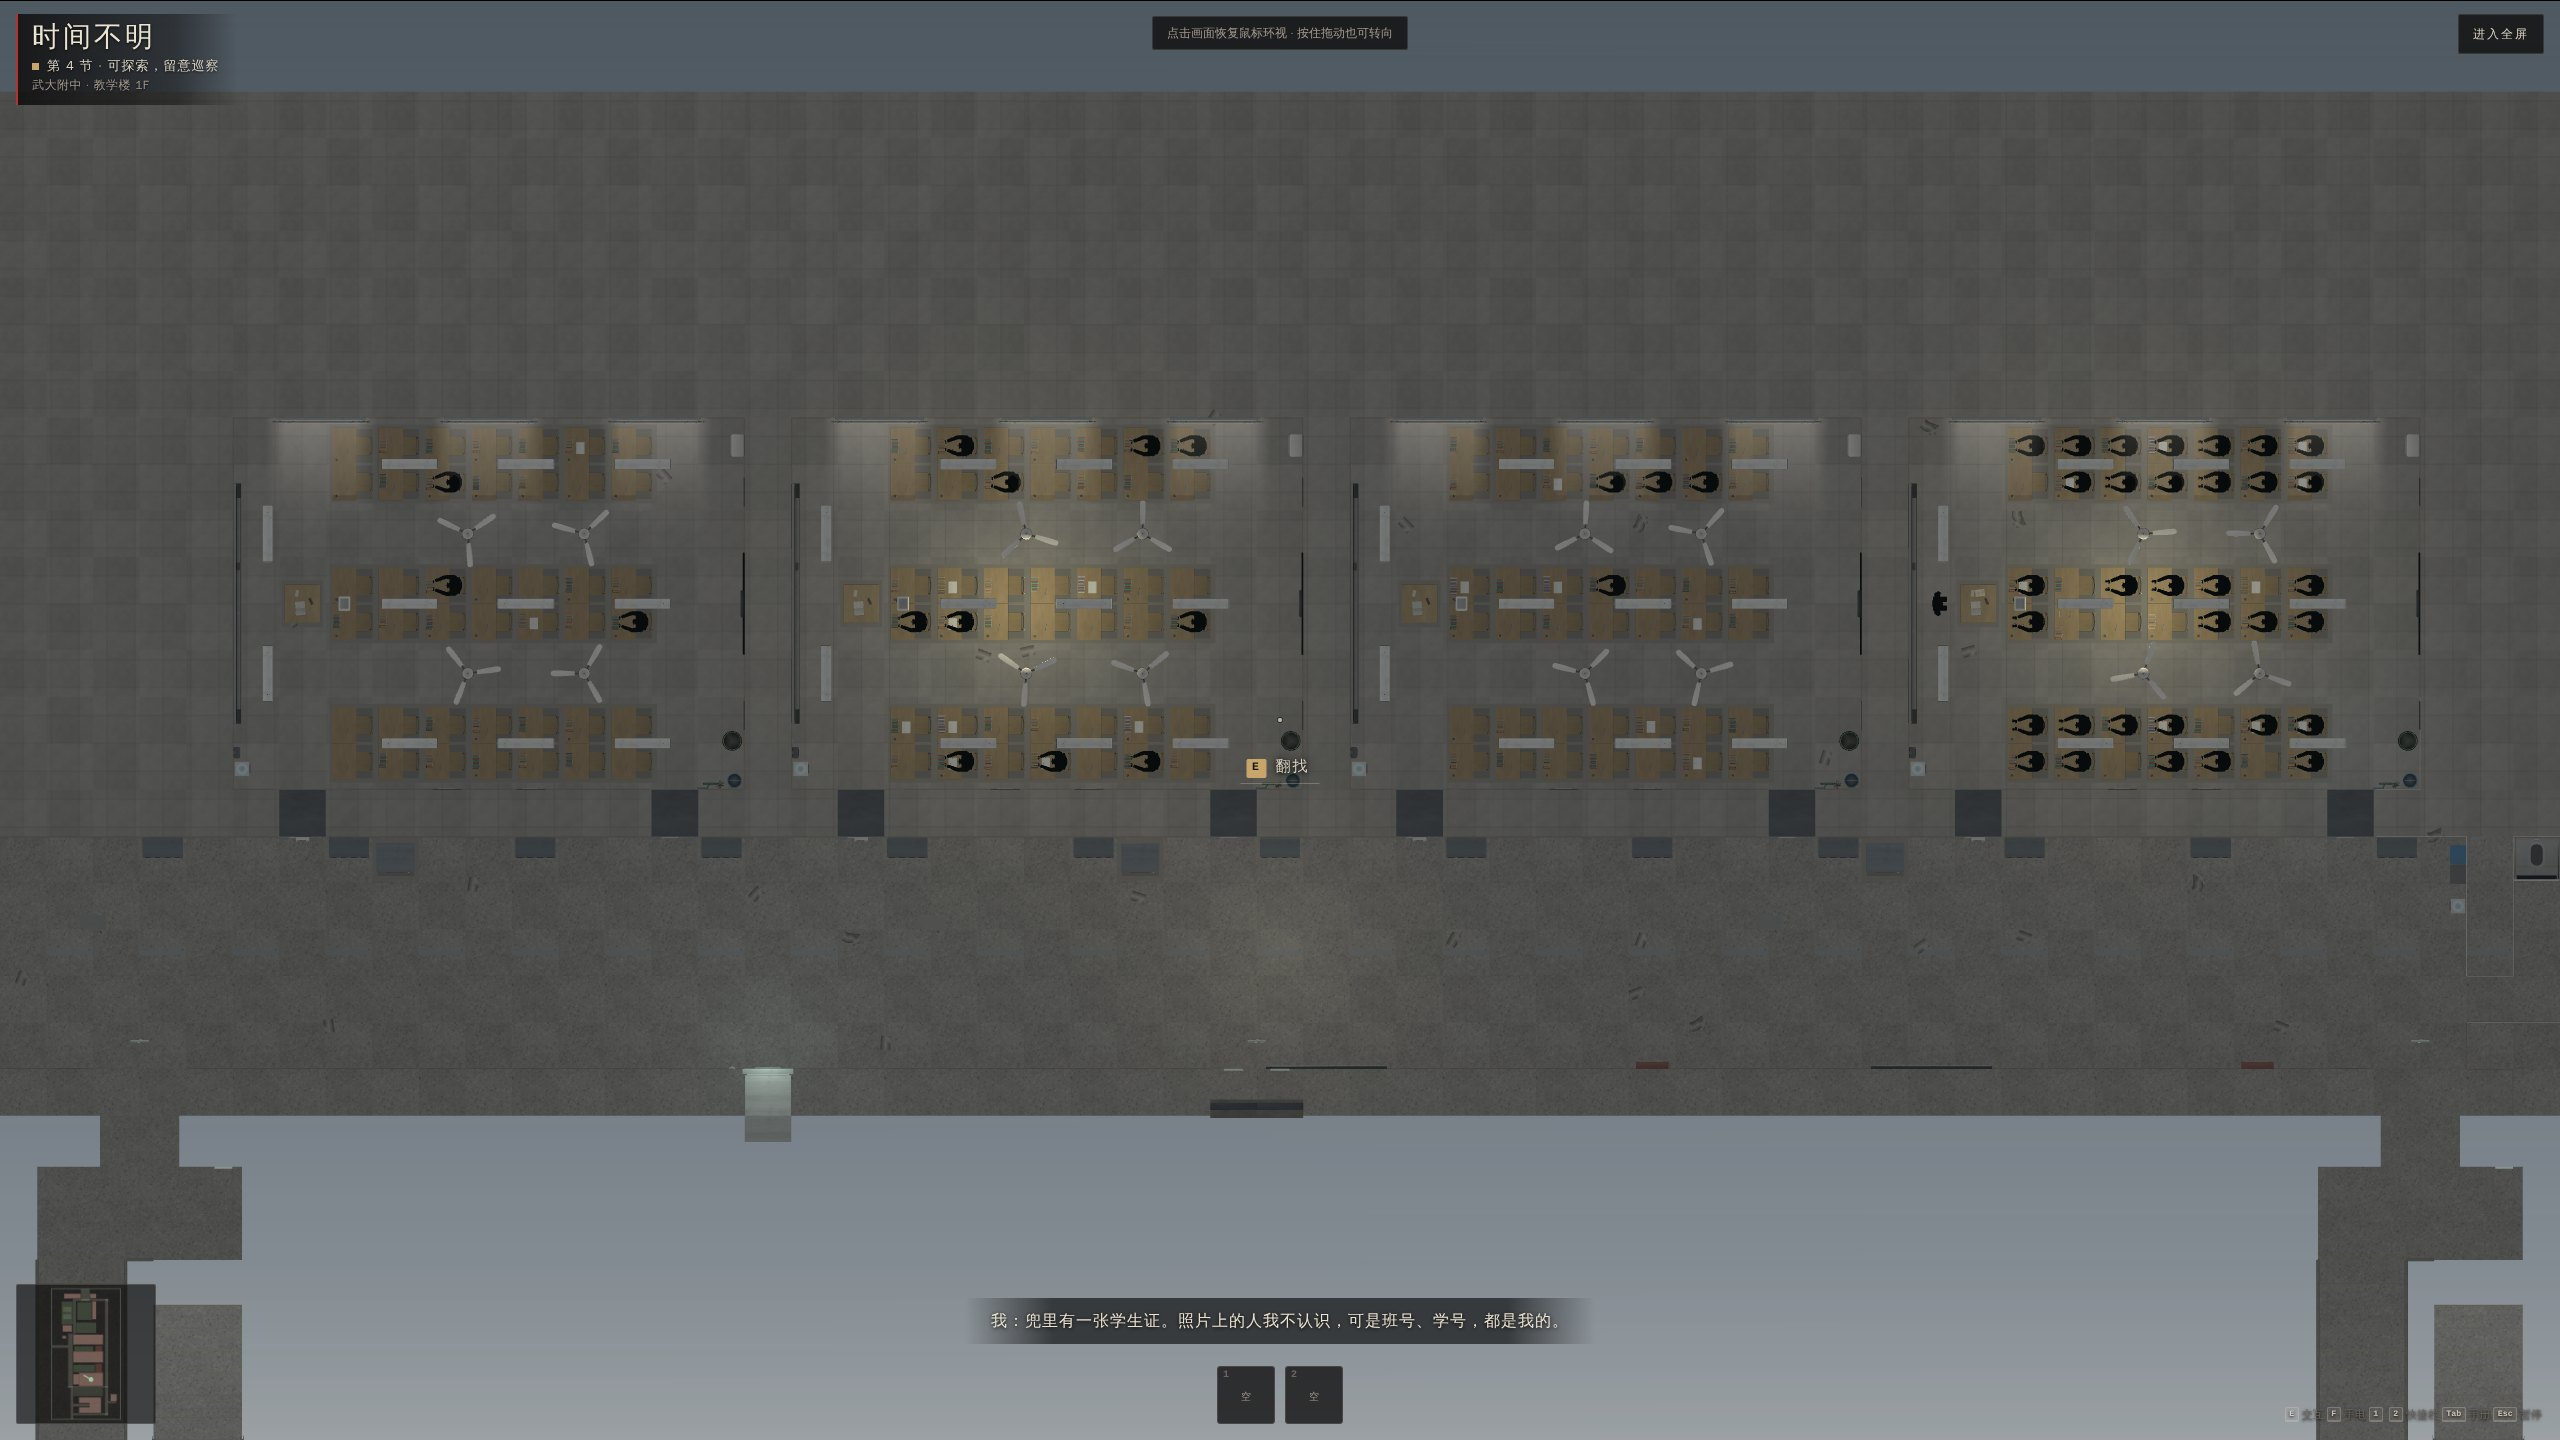
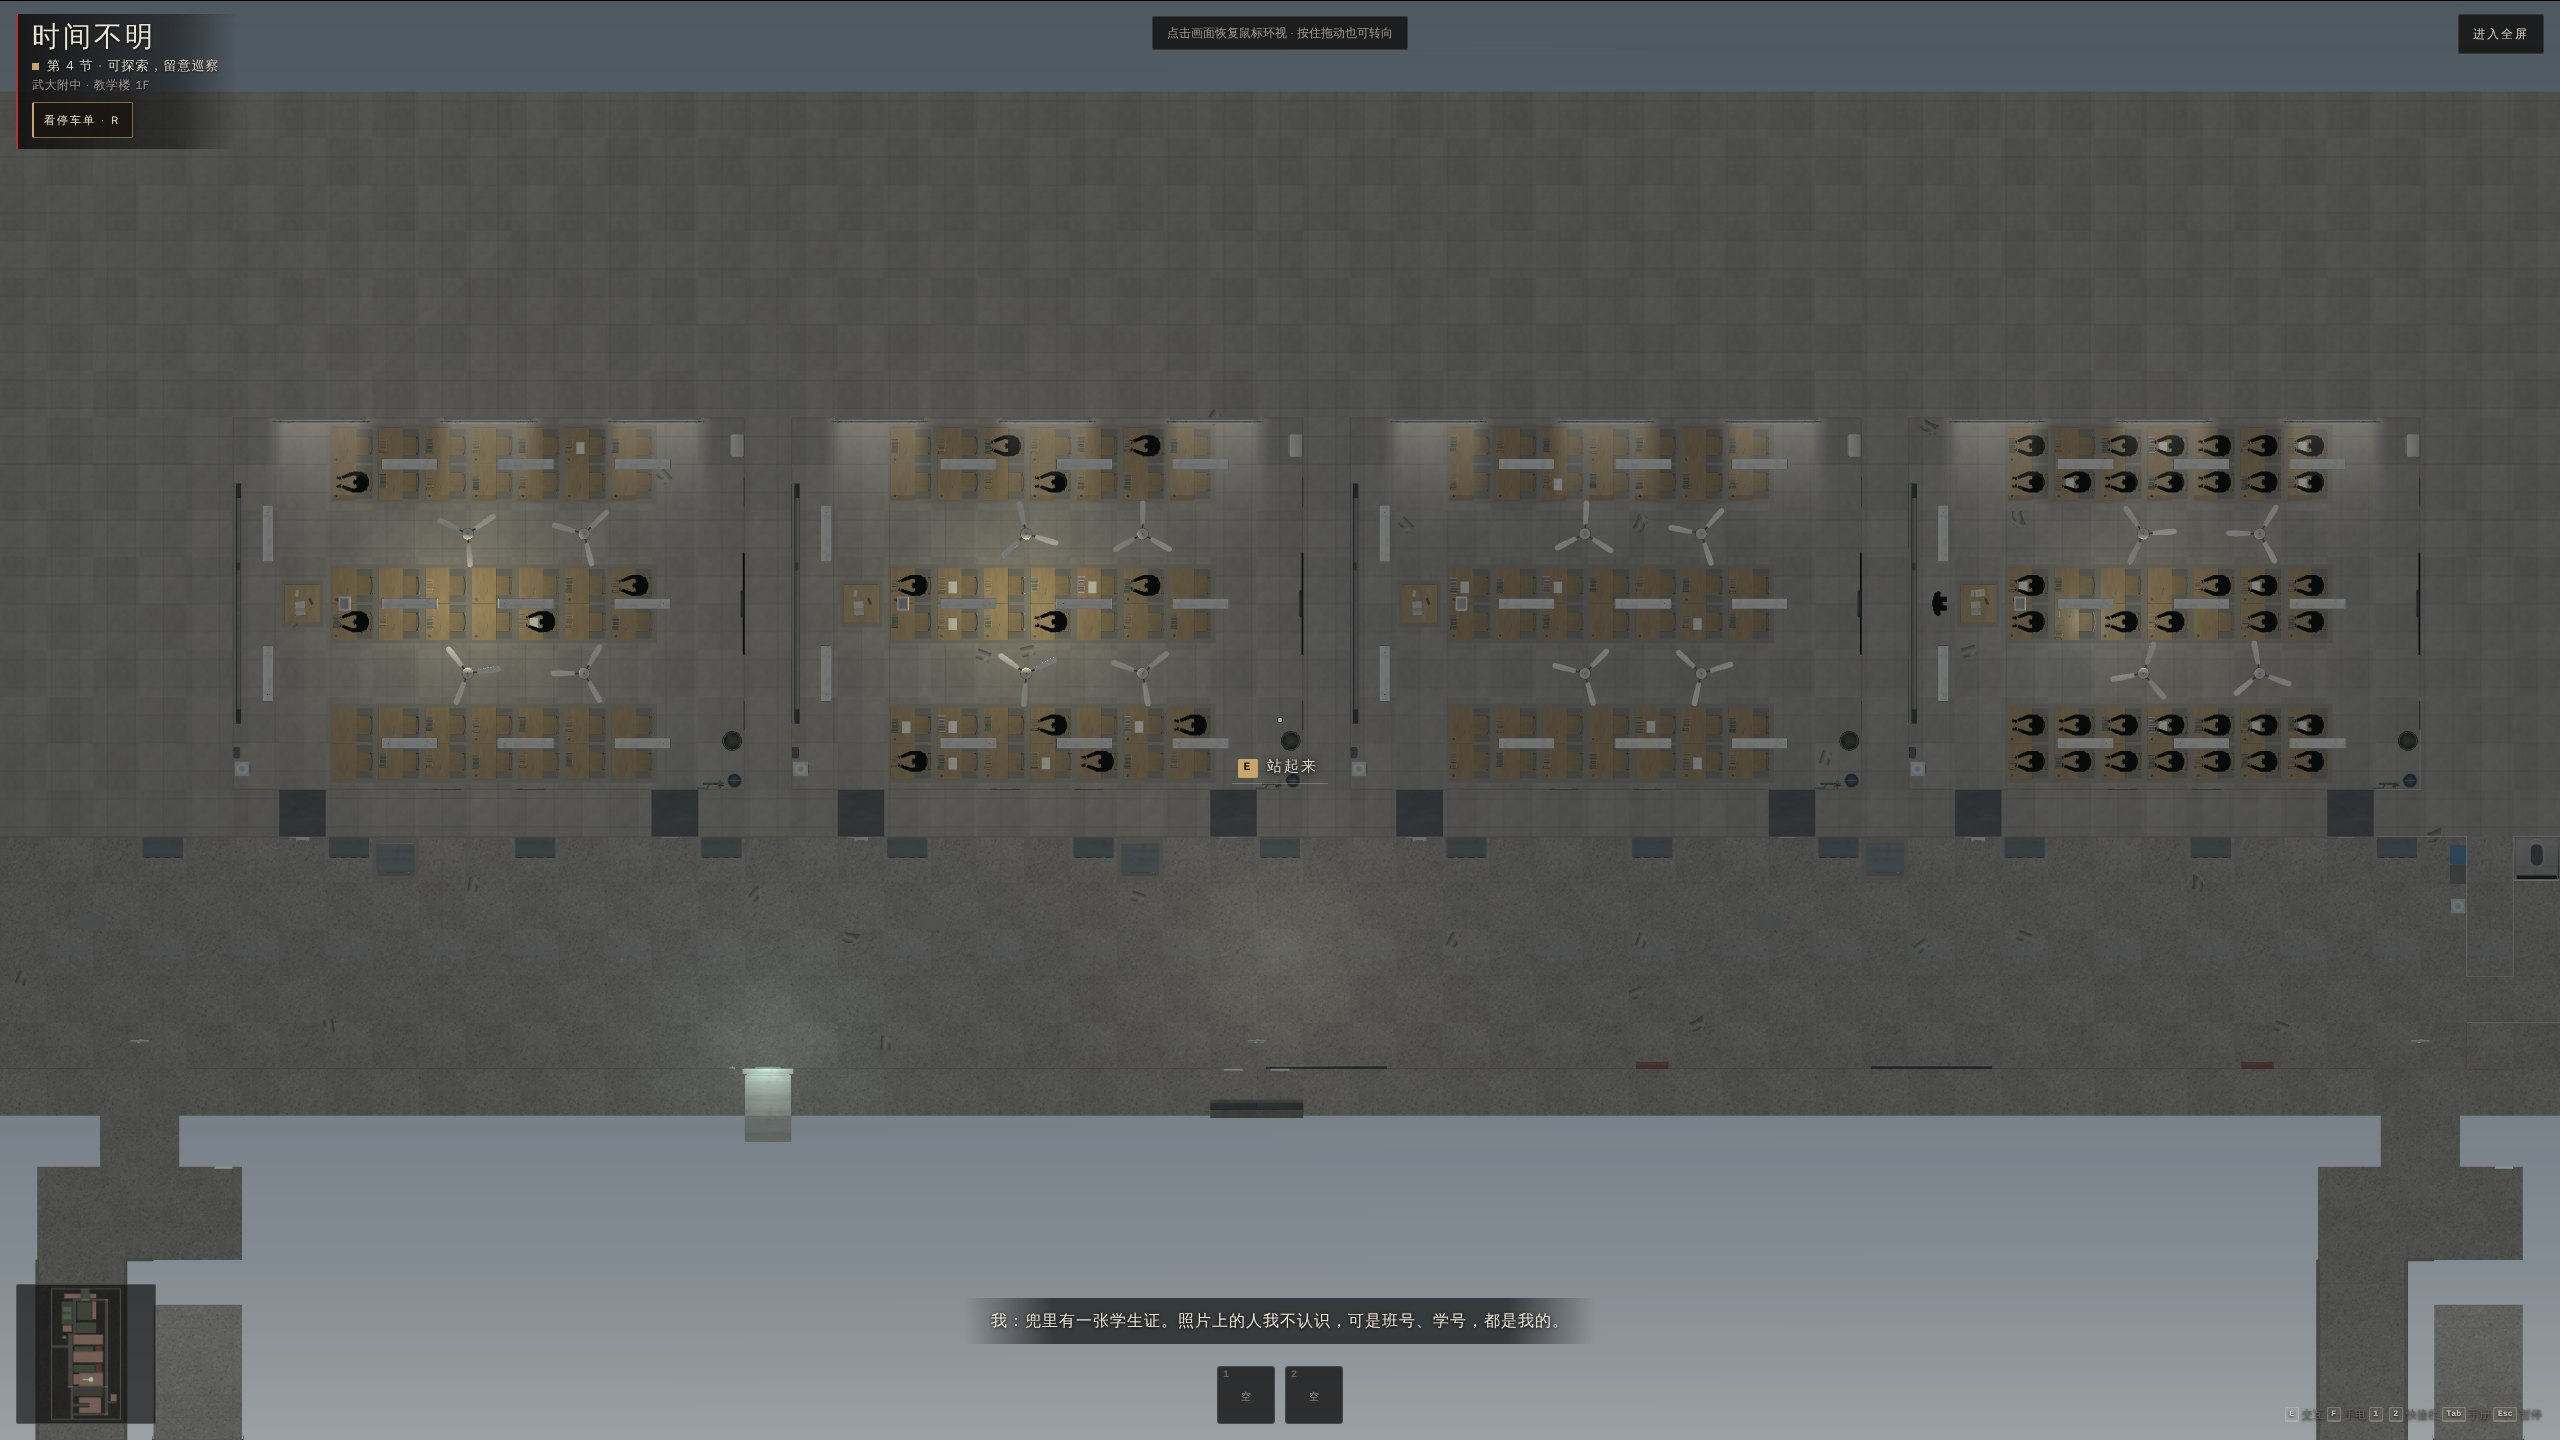
教学楼教室点光源恢复三盏：走廊、电梯厅灯的序号不变
每盏房间灯的闪法和好坏按序号定（lighting.js 的 roomFlicker、lampHealth）。教室点光源从三盏改成两盏以后，后面的走廊灯、
电梯厅灯序号前移：4F 走廊原来是坏灯变成亮的，5F 走廊原来亮的变成坏的，3F、4F、5F 的电梯厅灯也变了；
test_engine 的胶片颗粒那项（关掉颗粒后暗处两帧差）在走廊入口看到走廊灯换了闪法，稳定不过。
现在一层四间里开灯的是第一间、第二间和自己班（和原来六间开三间一样），一间一盏点光源，各层每个序号的灯况和 main 一致；
文档跟着改，一层俯视重拍。

Claude-Session: https://claude.ai/code/session_015vraF6vpWDwJ9RDxwjQfqV

diff --git a/game3d/js/content/scene-data.js b/game3d/js/content/scene-data.js
@@ -19,7 +19,9 @@ var ROOM_THEMES={
 var ROOM_LIGHTS={
   default:[[-0.33,2.75,-0.24,0xf2dcc0,1.7,16,'room'],[0.33,2.75,0.28,0xffe9c8,1.7,16,'room']],
   tunnel:[[3.5,2.65,4.5,0x9ab8ac,0.9,10,'tile'],[3.5,2.65,11.5,0x9ab8ac,0.9,10,'tile'],[3.5,2.65,19.5,0x9ab8ac,0.9,10,'tile']],
-  teach:[[26.0,2.75,11.0,0xffe9c8,1.55,16,'tile'],[50.0,2.75,11.0,0xffe9c8,1.55,16,'tile']],   /* 开着灯的两间教室（第二间和自己班，见 room-recipe 的 LIT）正中 */
+  /* 开着灯的三间教室正中（第一间、第二间和自己班，见 room-recipe 的 LIT）。保持三盏：每盏灯的闪法和好坏按序号定（lighting.js 的
+     roomFlicker / lampHealth），后面走廊那盏、电梯厅那盏的序号不能变，不然各层走廊哪盏坏、哪盏亮就全换了 */
+  teach:[[14.0,2.75,11.0,0xffe9c8,1.55,16,'tile'],[26.0,2.75,11.0,0xffe9c8,1.55,16,'tile'],[50.0,2.75,11.0,0xffe9c8,1.55,16,'tile']],
   lab3:[[-16,2.70,-2,0xc8dce8,1.3,18],[-3,2.70,-2,0xc8dce8,1.1,18],[17,2.60,-2.5,0x8a2418,1.6,16],[0,2.6,0.4,0xc07a4a,0.8,14,'room']],
   bell:[[0,2.4,2.5,0xffa860,0.9,12]],trash:[[0,2.6,0,0xb8d0a8,0.7,10]]
 };

diff --git a/game3d/js/content/room-recipe.js b/game3d/js/content/room-recipe.js
@@ -428,7 +428,7 @@ function roomDecor(c,isRoof){
     if(teachFl){
       var nl=0;
       for(x=3;x<W-3;x+=9){ var near=Math.abs(CX(x))<10; ceilingLight(K,CX(x),CZ(18),1.8,0.24,0,near?(nl++===1?'dying':'on'):((x/9|0)%2?'dying':'off')); }
-      var cs=$imports.CLS_SPAN, ci, LIT={21:1,45:1};                       /* 一层四间，开着灯的是第二间和自己班那间 */
+      var cs=$imports.CLS_SPAN, ci, LIT={9:1,21:1,45:1};                  /* 一层四间，开着灯的是第一间、第二间和自己班那间（和点光源一一对应，见 scene-data.js） */
       for(ci=0;ci<cs.length;ci++) classroomLamps(c,ci,cs[ci][0],!!LIT[cs[ci][0]]);   /* 教室的护眼灯和黑板灯 */
     }else if(R.id!=='garage1'){
       var nk=0;

diff --git a/docs/plan/电梯直通、新天赋、新结局与恐怖氛围.md b/docs/plan/电梯直通、新天赋、新结局与恐怖氛围.md
@@ -508,7 +508,7 @@
 
 **第二轮结果（2026-11-04）：**
 
-- **实现：** 方案提交在 `0dd7abc`，代码在 `1022f31`，测试跟着改在 `dde8061` 和 `ee6262c`。布局、网格、墙面陈设和灯、标识、同学和老师、开场机位、存档迁移、手机原教室充电都按上面的方案做了，教学楼每层的点光源改成开灯的两间各一盏。
+- **实现：** 方案提交在 `0dd7abc`，代码在 `1022f31`，测试跟着改在 `dde8061` 和 `ee6262c`。布局、网格、墙面陈设和灯、标识、同学和老师、开场机位、存档迁移、手机原教室充电都按上面的方案做了，教学楼每层开灯的三间教室（第一、二间和自己班）各一盏点光源。一开始只放了两盏，后面走廊、电梯厅那两盏的序号跟着往前挪，各层走廊的灯哪盏坏、哪盏亮就全换了（`test_film_grain_*` 查出来），所以恢复成三盏，序号和以前一样。
 - **审查与测试：**
   - 穿模审查只剩贴墙那组外侧的课桌「1.2 米内没有能站的点」。它们和真实教室一样只能从过道一侧够到，游戏里站在过道斜着瞄就能选中。审查对教室课桌放宽到 1.6 米，并加了游戏内实测。
   - 第一轮带进来一个回归：名牌用的双面材质会让水杯死法的演出现编着色器。已改成单面材质，朝黑板那片转过去。
